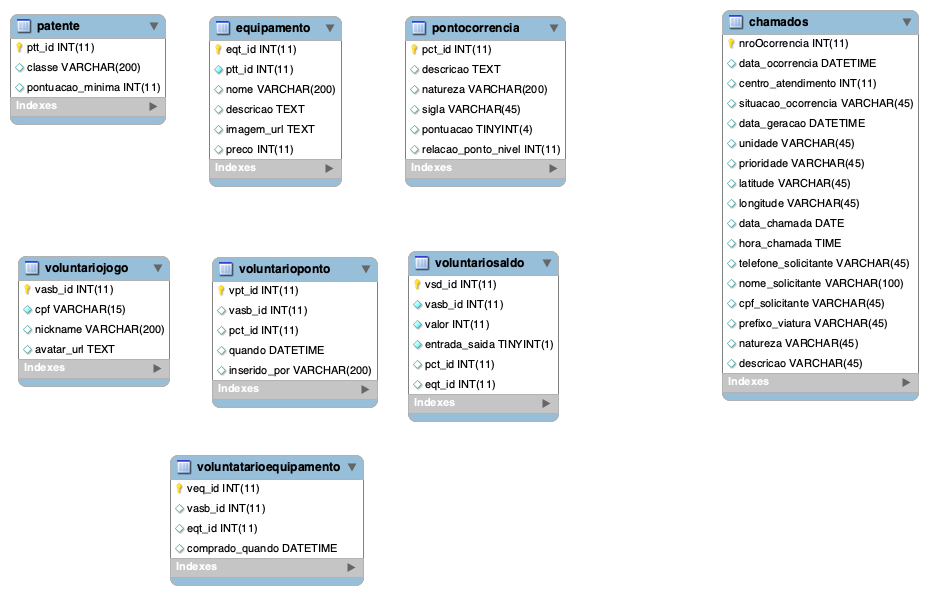
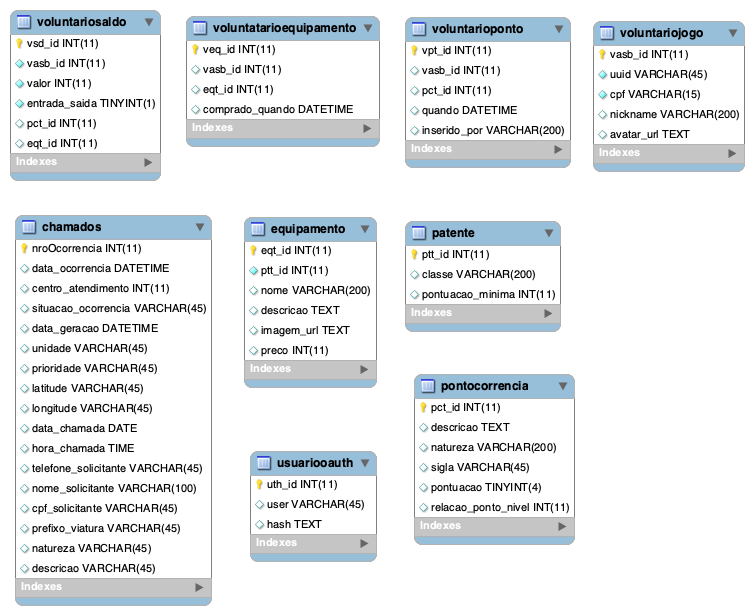
add campo uuid como chave para ser externalizada como API

diff --git a/php/voluntario.php b/php/voluntario.php
@@ -30,17 +30,19 @@ function voluntarioNovo(Request $request, Response $response, array $args) {
     }
 
     $avatarURL = filter_var($data['avatar_url'], FILTER_SANITIZE_STRING);
+    $uuid = bin2hex(random_bytes(8));
 
     $novoID = 0;
 
     try {
-        $sql = "INSERT INTO voluntariojogo (cpf, nickname, avatar_url) ";
-        $sql .= "VALUES (?,?,?)";
+        $sql = "INSERT INTO voluntariojogo (cpf, nickname, avatar_url, uuid) ";
+        $sql .= "VALUES (?,?,?,?)";
         $stmt= $db->prepare($sql);
 
         $dado = array($cpf);
         array_push($dado, $nick);
         array_push($dado, $avatarURL);   
+        array_push($dado, $uuid);
 
         $logger->info('SQL ' . $sql);
         $logger->info('dados ', ['dado' => $dado]);
@@ -55,7 +57,7 @@ function voluntarioNovo(Request $request, Response $response, array $args) {
         return $response;
     }
         
-    $arrResp = array('id' => $novoID, 'cpf' => $cpf, 'avatar_url'=> $avatarURL, 'nickname' => $nick);
+    $arrResp = array('id' => $uuid, 'cpf' => $cpf, 'avatar_url'=> $avatarURL, 'nickname' => $nick);
 
     $response = $response->withHeader('Content-Type','application/json')->withStatus(201);
     //$response->setStatus(201);
